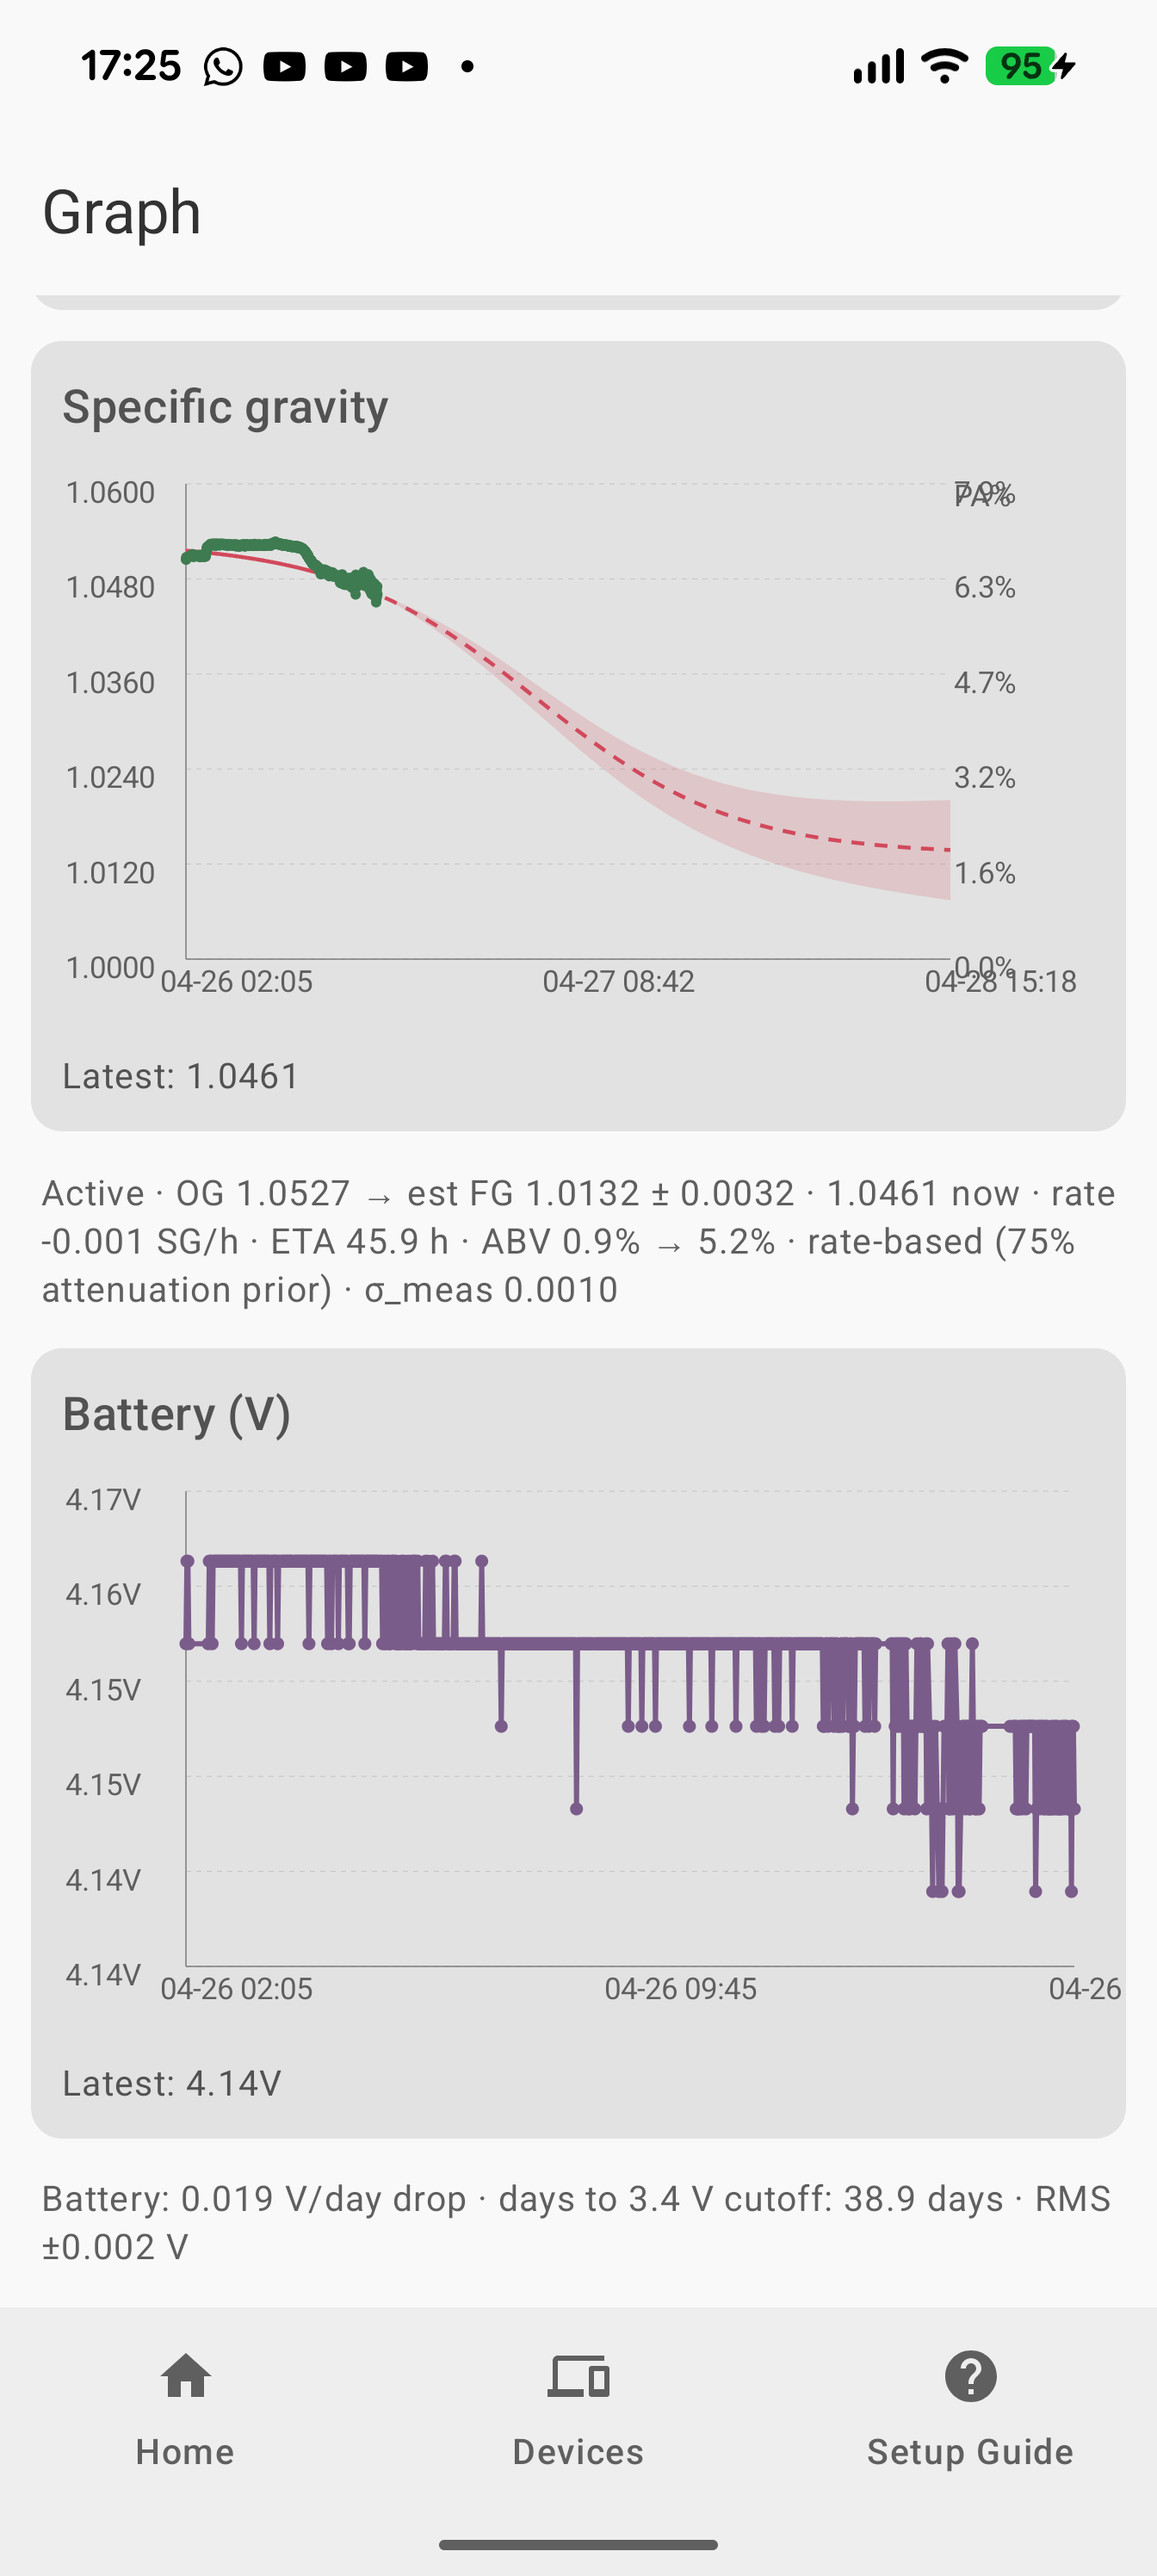
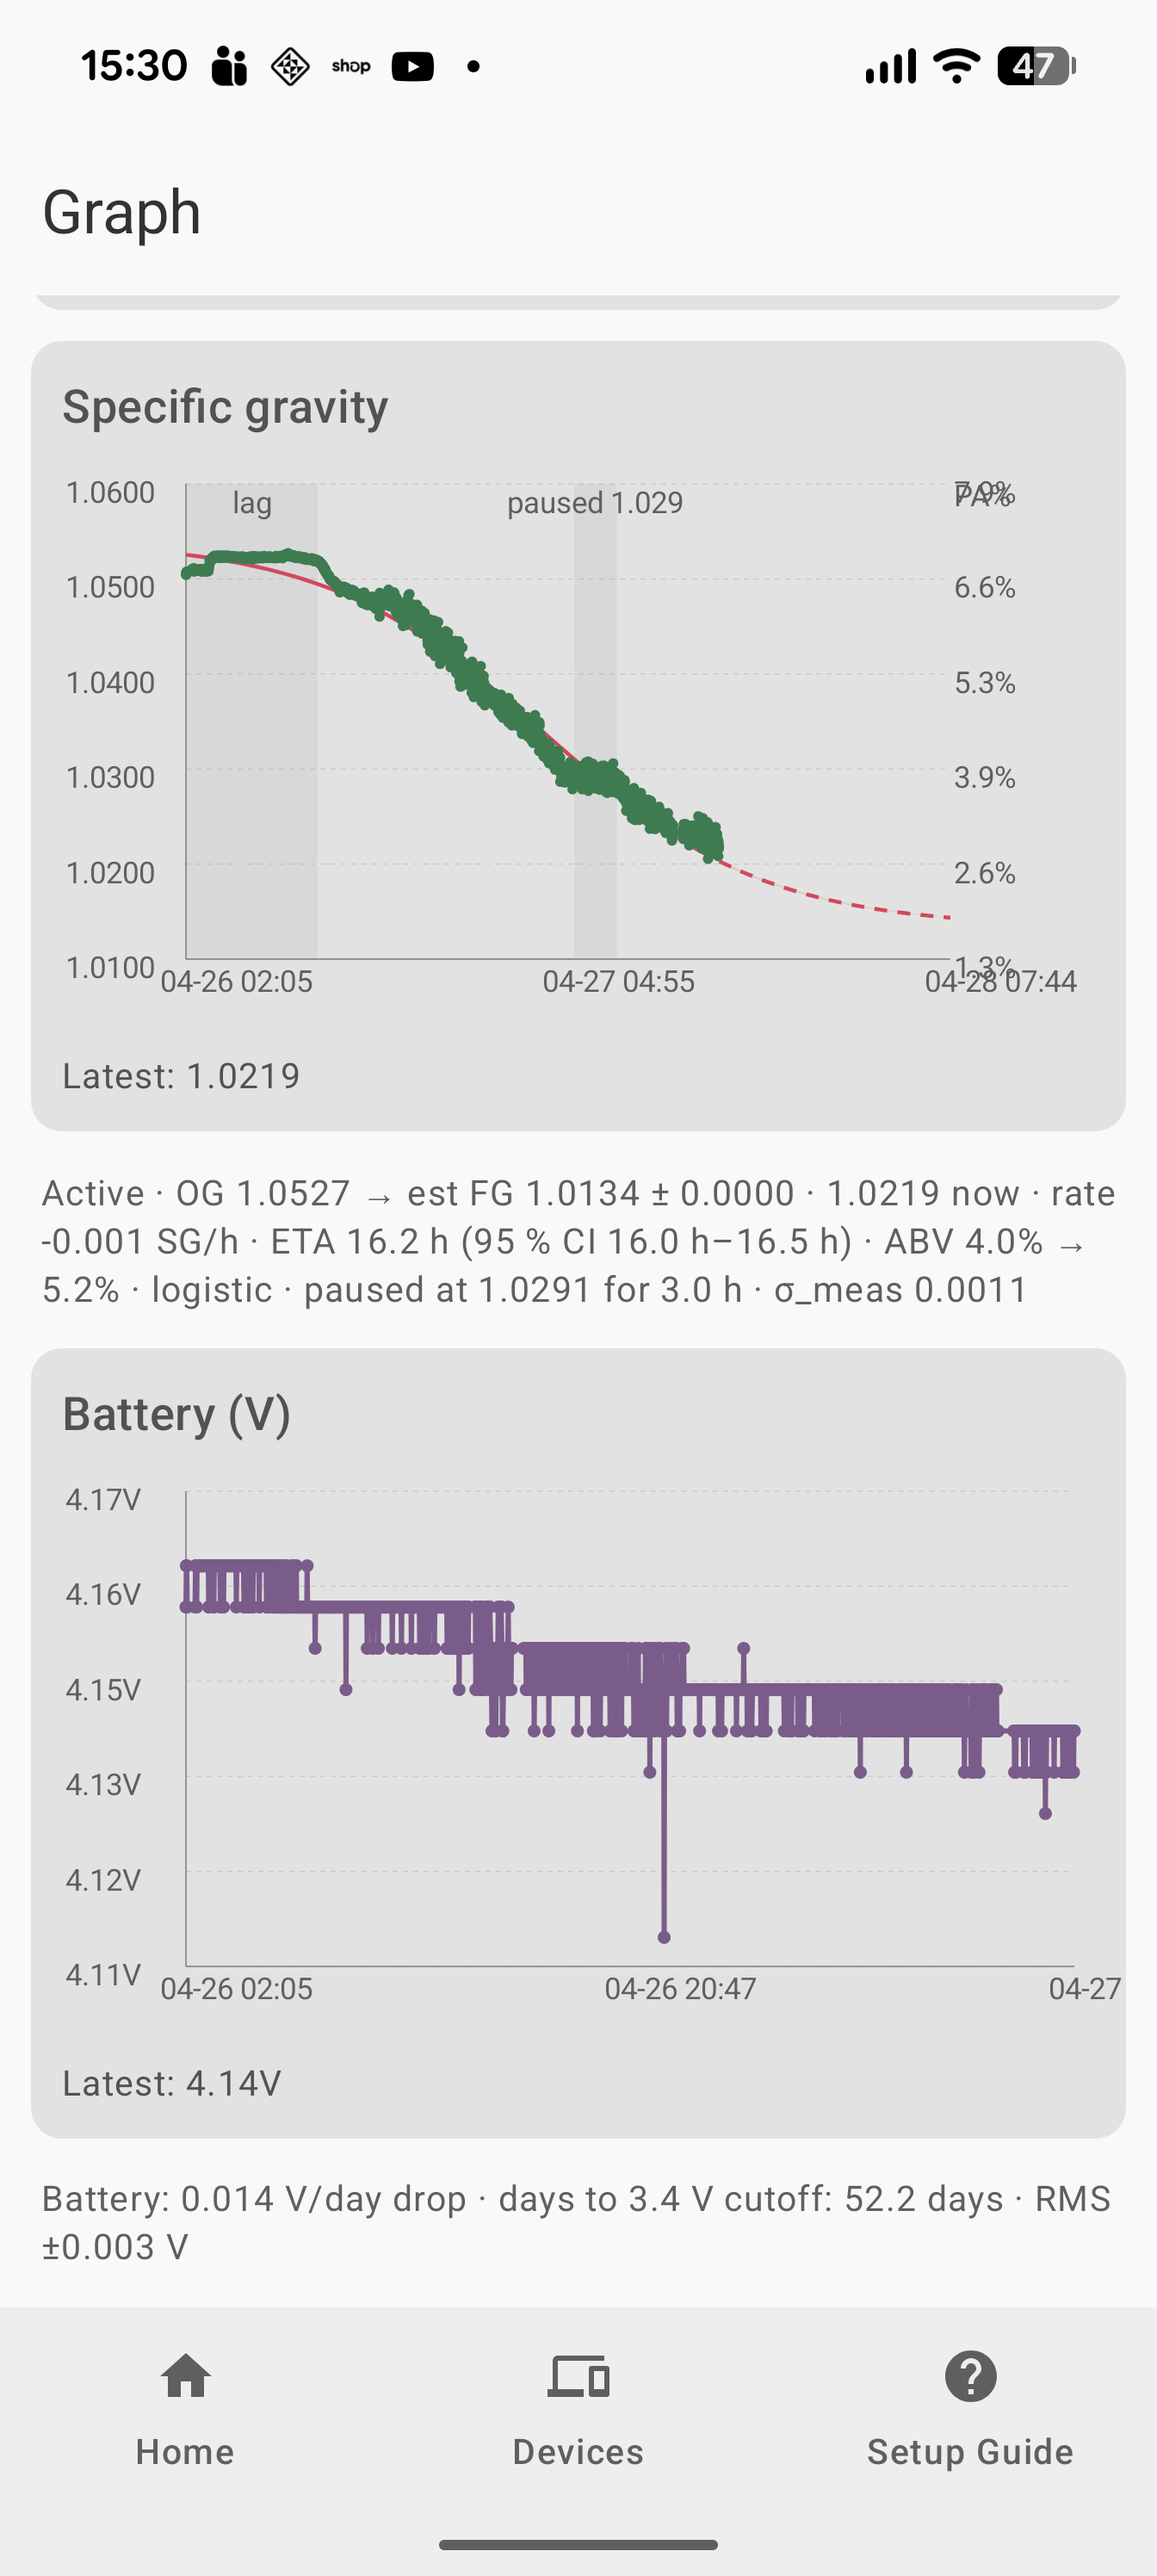
Plateau labels: shorten format, drop band-width gate, refresh screenshots
Mid-plateau bands are typically narrow (~80 px on a 35 h chart) so the
4-decimal "paused 1.0291" label was being suppressed by the
fits-inside-band check. Drop the gate and let the label spill into the
adjacent dot space — being centred on the shaded region preserves the
visual association — and use 3 dp for SG (1 mSG resolution matches the
device's effective precision; 4 dp is still on the y-axis tick labels
if you want it).

Refresh fastlane screenshots 1 and 2 to show the v1.1 plateau-labelled
SG chart and a top-of-graph tilt + temperature view. README gets the
headline screenshot inline plus two new Features bullets covering the
Bayesian fitter and plateau detection.

diff --git a/app/src/main/kotlin/com/ispindle/plotter/ui/screens/LineChart.kt b/app/src/main/kotlin/com/ispindle/plotter/ui/screens/LineChart.kt
@@ -254,19 +254,18 @@ fun LineChart(
                             color = labelColor, fontSize = 10.sp
                         )
                     )
-                    // Only render if the band is at least as wide as the
-                    // label plus a little breathing room — otherwise the
-                    // text would overflow into neighbouring data.
+                    // Centre the label horizontally on the band. If the
+                    // text is wider than the band it's allowed to spill
+                    // into adjacent dot space — being centred over the
+                    // shaded region preserves the visual association.
                     val bandW = ex - sx
-                    if (bandW > layout.size.width + 8f) {
-                        drawText(
-                            layout,
-                            topLeft = Offset(
-                                x = sx + (bandW - layout.size.width) / 2f,
-                                y = paddingTop + 2f
-                            )
+                    drawText(
+                        layout,
+                        topLeft = Offset(
+                            x = sx + (bandW - layout.size.width) / 2f,
+                            y = paddingTop + 2f
                         )
-                    }
+                    )
                 }
             }
 

diff --git a/app/src/main/kotlin/com/ispindle/plotter/ui/screens/GraphScreen.kt b/app/src/main/kotlin/com/ispindle/plotter/ui/screens/GraphScreen.kt
@@ -512,8 +512,11 @@ private fun Fermentation.PredictionSource.label(): String = when (this) {
  */
 private fun plateauLabel(p: com.ispindle.plotter.analysis.Plateau): String = when (p.kind) {
     com.ispindle.plotter.analysis.Plateau.Kind.Lag -> "lag"
-    com.ispindle.plotter.analysis.Plateau.Kind.Mid -> "paused %.4f".format(p.sg)
-    com.ispindle.plotter.analysis.Plateau.Kind.Tail -> "asymptote %.4f".format(p.sg)
+    // Three decimals (1 mSG resolution) keeps the label narrow enough
+    // for typical band widths; the user can read 4 dp off the y-axis if
+    // they want more precision.
+    com.ispindle.plotter.analysis.Plateau.Kind.Mid -> "paused %.3f".format(p.sg)
+    com.ispindle.plotter.analysis.Plateau.Kind.Tail -> "asymptote %.3f".format(p.sg)
 }
 
 /**

diff --git a/README.md b/README.md
@@ -8,6 +8,12 @@ Android app (Kotlin / Jetpack Compose) that receives, stores, plots and
 calibrates readings from an [iSpindel](https://github.com/universam1/iSpindel)
 hydrometer — including the **MTB iSpindel PCB 4.0**.
 
+<p align="center">
+  <img src="fastlane/metadata/android/en-US/images/phoneScreenshots/1_en-US.png"
+       alt="SG chart with Bayesian logistic fit, 95% credible band, lag and mid-ferment plateau detection"
+       width="320">
+</p>
+
 > **Protocol note.** The MTB PCB 4.0 uses an ESP8266 and therefore has no
 > Bluetooth. "Pairing" with it is really a WiFi / HTTP handshake: the phone
 > runs an HTTP server, the iSpindle wakes on its interval and POSTs JSON,
@@ -29,6 +35,14 @@ or install from source below.
   battery voltage, with 24 h / 7 d / 30 d / all windows.
 - Calibration: add `(angle, known SG)` points, fit a polynomial of degree
   1–3 by ordinary least squares, see R², apply the fit to live readings.
+- Bayesian fermentation model — 4-parameter logistic SG curve fitted by
+  Levenberg–Marquardt with a Gaussian prior on attenuation (MAP), Laplace
+  approximation of the posterior, and a 95 % credible band on both the
+  predicted SG curve and the time-to-FG. See [`ROADMAP.md`](ROADMAP.md)
+  for what the fitter does today and where it's going.
+- Plateau detection — flags lag plateaus, mid-ferment diauxic shifts
+  (where yeast pauses between sugar populations), and asymptote tails
+  on the SG chart with a shaded band and inline label.
 - Room-backed storage, so readings persist across app restarts.
 
 ## Build from source
